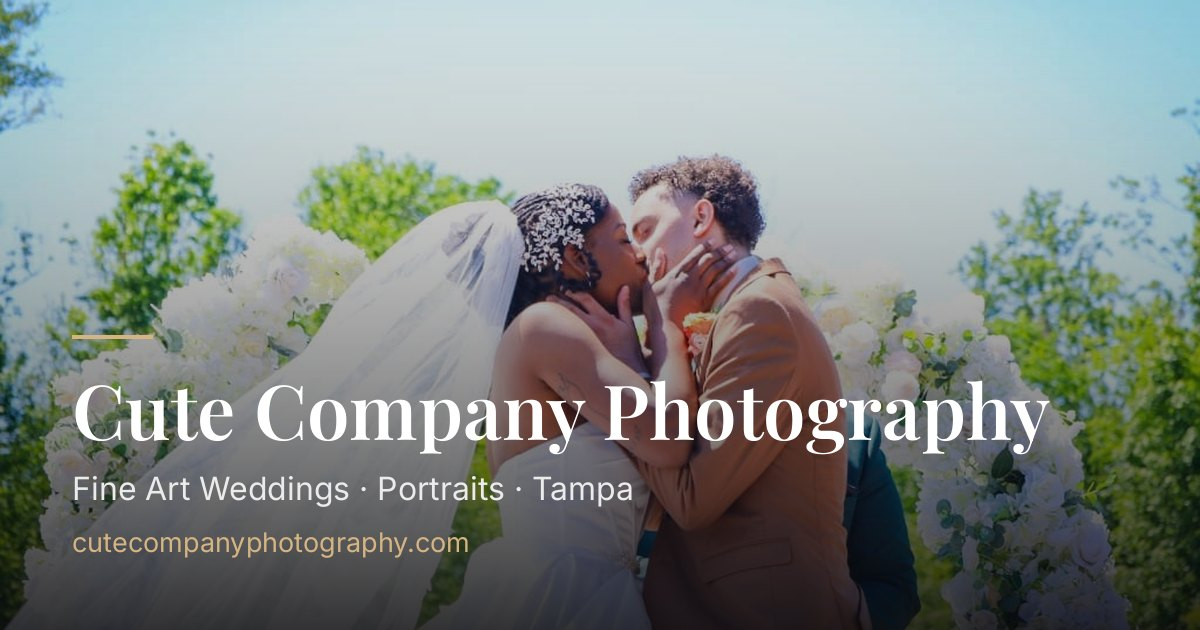
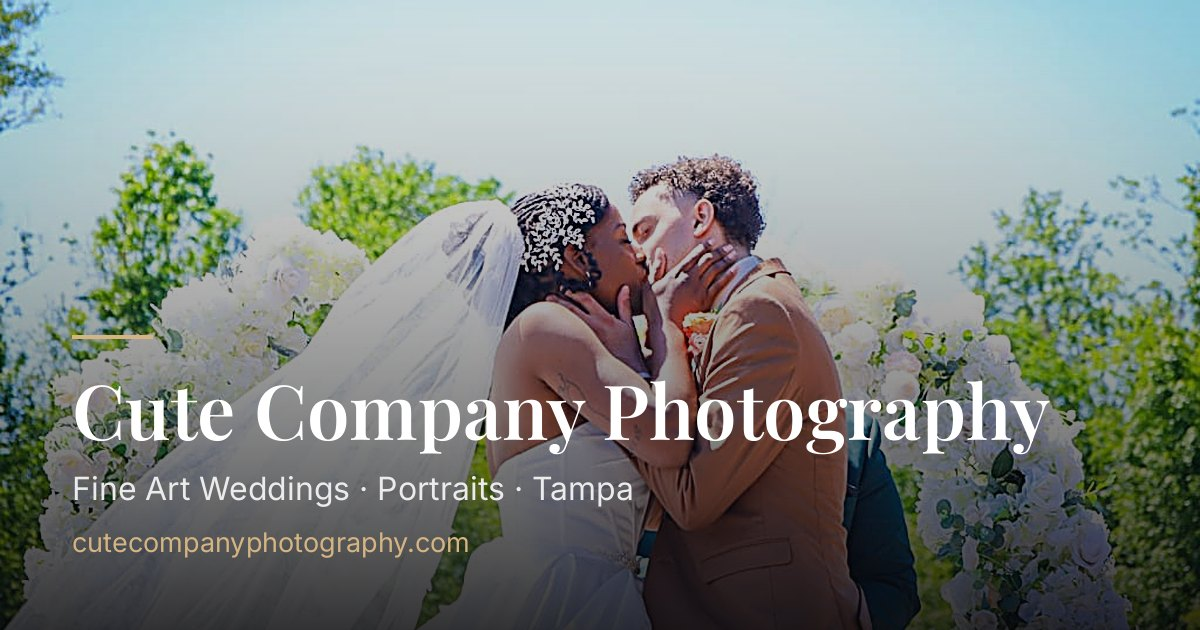
SEO: sharpen OG image to counter upscale softness
The site source (wedding-hero.jpg) is only 1024px wide; reaching the 1200px
OG width required a mild upscale that softened the couple. Apply an UnsharpMask
after the LANCZOS resize to restore apparent crispness. For a pixel-perfect
result, drop the full-res original into public/images and re-run the script.

diff --git a/scripts/generate-og-image.py b/scripts/generate-og-image.py
@@ -12,7 +12,7 @@ Fonts (Playfair Display + Inter, OFL) are fetched to /tmp/ogfonts if missing.
 
 import os
 import urllib.request
-from PIL import Image, ImageDraw, ImageFont
+from PIL import Image, ImageDraw, ImageFont, ImageFilter
 
 W, H = 1200, 630
 ROOT = os.path.dirname(os.path.dirname(os.path.abspath(__file__)))
@@ -37,6 +37,7 @@ def ensure_fonts():
 
 def cover(img, w, h):
     """Scale + center-crop to exactly w x h (CSS object-fit: cover)."""
+    img_orig_w = img.width
     src_ratio = img.width / img.height
     if src_ratio > w / h:
         new_h = h
@@ -45,6 +46,10 @@ def cover(img, w, h):
         new_w = w
         new_h = round(w / src_ratio)
     img = img.resize((new_w, new_h), Image.LANCZOS)
+    # The site's source is only 1024px wide, so reaching 1200px means a mild
+    # upscale that softens detail. An unsharp mask restores apparent crispness.
+    if new_w > img_orig_w:
+        img = img.filter(ImageFilter.UnsharpMask(radius=2.2, percent=140, threshold=2))
     left = (new_w - w) // 2
     top = (new_h - h) // 2
     return img.crop((left, top, left + w, top + h))
